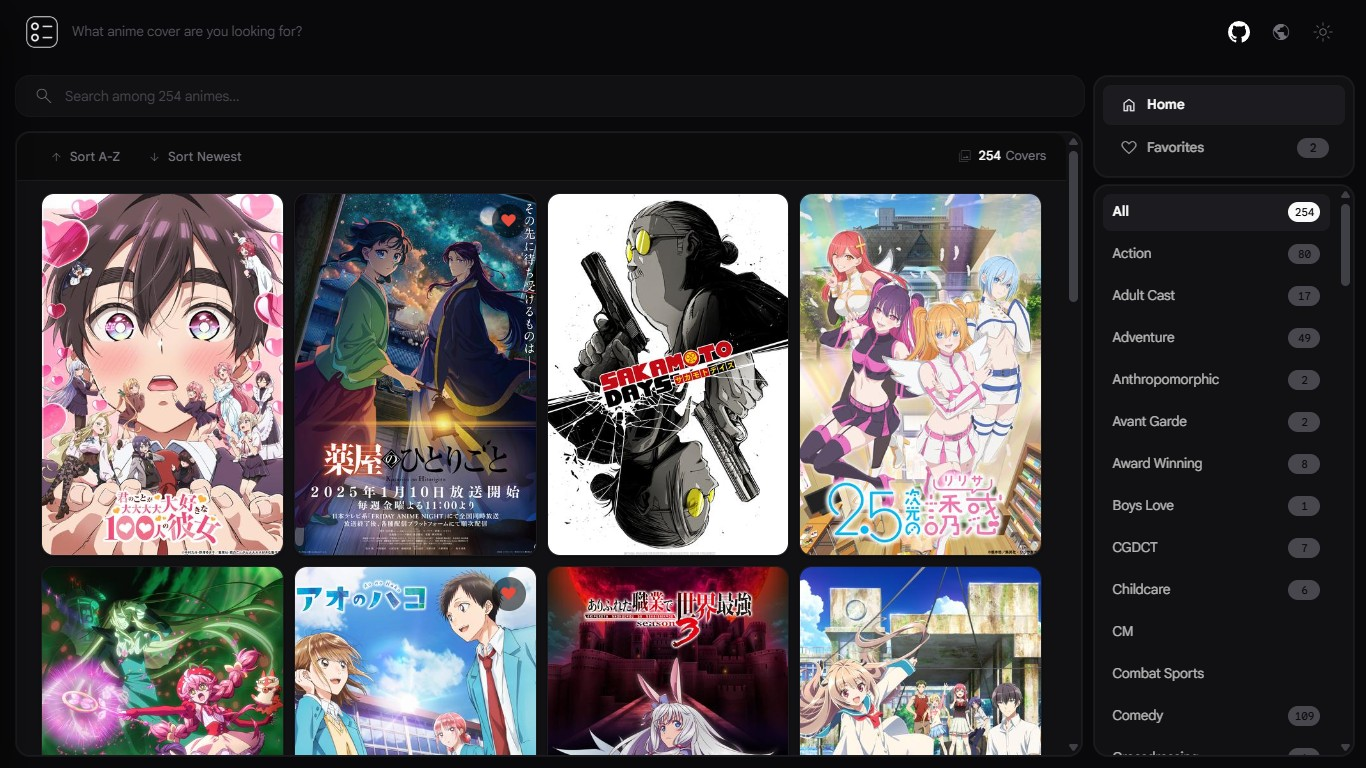
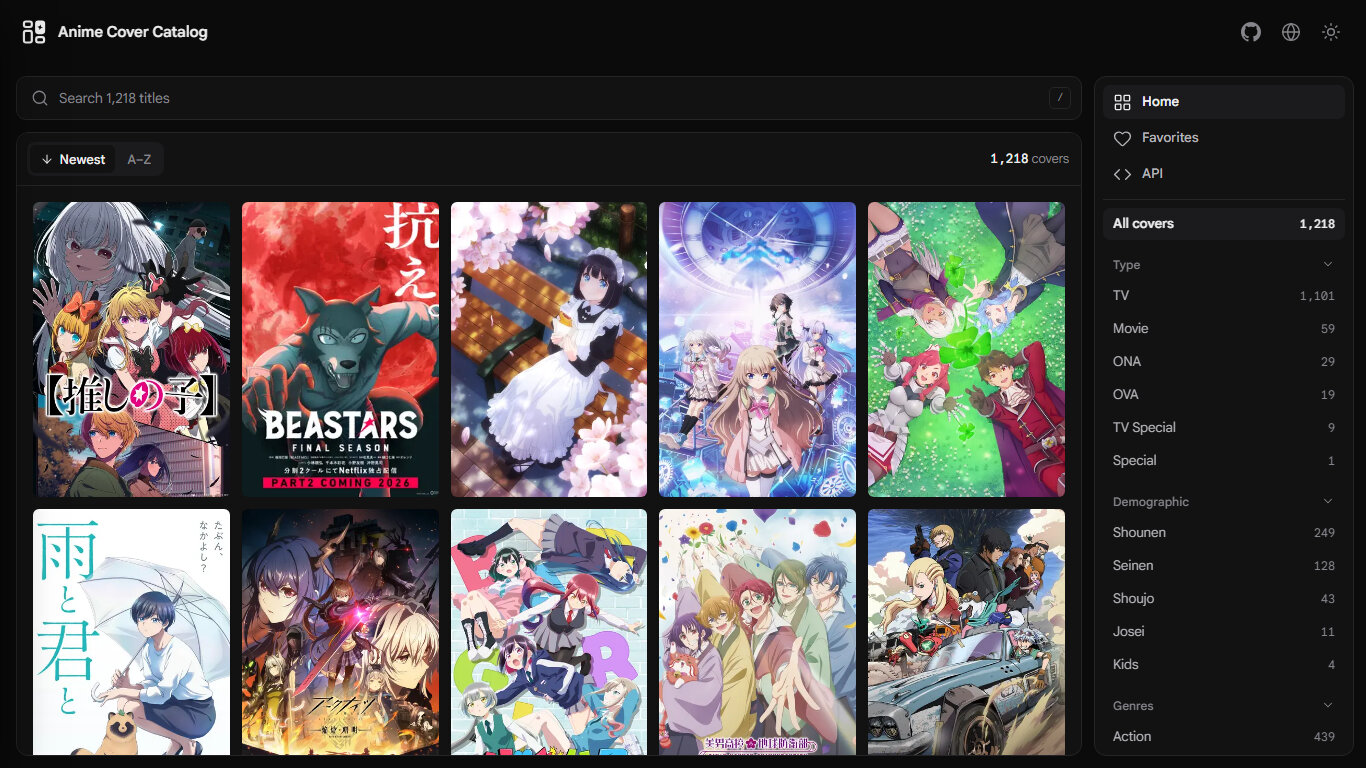
docs(readme): actualizar la captura y los iconos del stack
La captura de la portada era del diseño anterior y el stack aún citaba
Material Symbols en lugar de Lucide.

diff --git a/README.md b/README.md
@@ -25,7 +25,7 @@ A web application for browsing and discovering anime cover art. Built with Angul
 - **Styling**: CSS with CSS Variables for theming
 - **State Management**: Angular Signals
 - **Routing**: Angular Router with lazy loading
-- **Icons**: Google Material Symbols (Rounded)
+- **Icons**: Lucide (`@lucide/angular`)
 - **Hosting**: Vercel (app, API and thumbnails), Cloudflare R2 (full-size covers)
 - **Analytics**: Vercel Web Analytics
 
